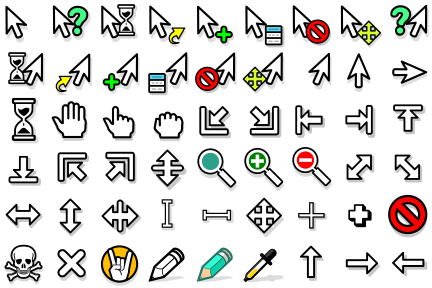
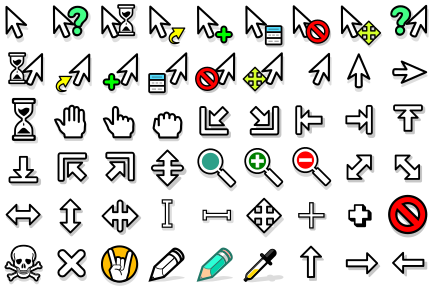
scale down the hands

Changed region(s): [[0.331, 0.375, 0.4514, 0.5], [0.1204, 0.3438, 0.2106, 0.5]]

diff --git a/README.md b/README.md
@@ -1,4 +1,4 @@
-![hackneyed-preview](https://raw.githubusercontent.com/Enthymem/hackneyed-x11-cursors/master/preview.png "Do you like big hands?")
+![hackneyed-preview](https://raw.githubusercontent.com/Enthymem/hackneyed-x11-cursors/master/preview.png "Ill-advised for those traumatized by GPFs")
 
 Overview
 --------
@@ -31,7 +31,7 @@ Credits
 
 * some SVGs taken from openclipart.org (pencil, pirate and coffee_mug as far as I can remember)
 
-* monolithic SVG idea taken from KDE's Breeze theme by Ken Vermette, which probably took the idea from Jakub Steiner's DMZ
+* monolithic SVG idea (and the SVG itself) taken from KDE's Breeze theme by Ken Vermette, who probably liked Jakub Steiner's DMZ way too much (but not enough to keep the Python script)
 
 Bugs
 ----
